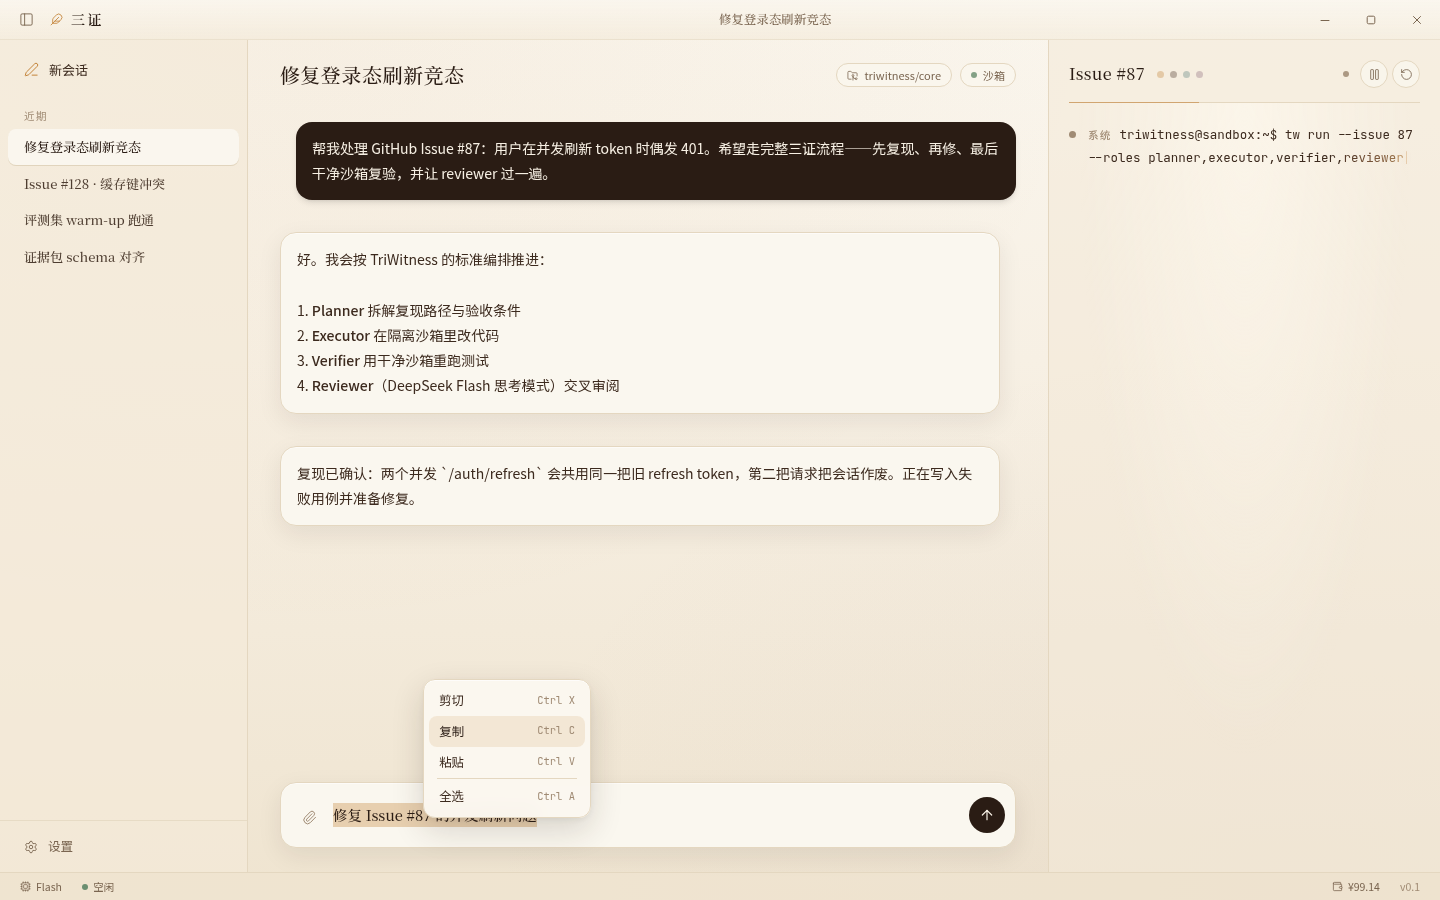
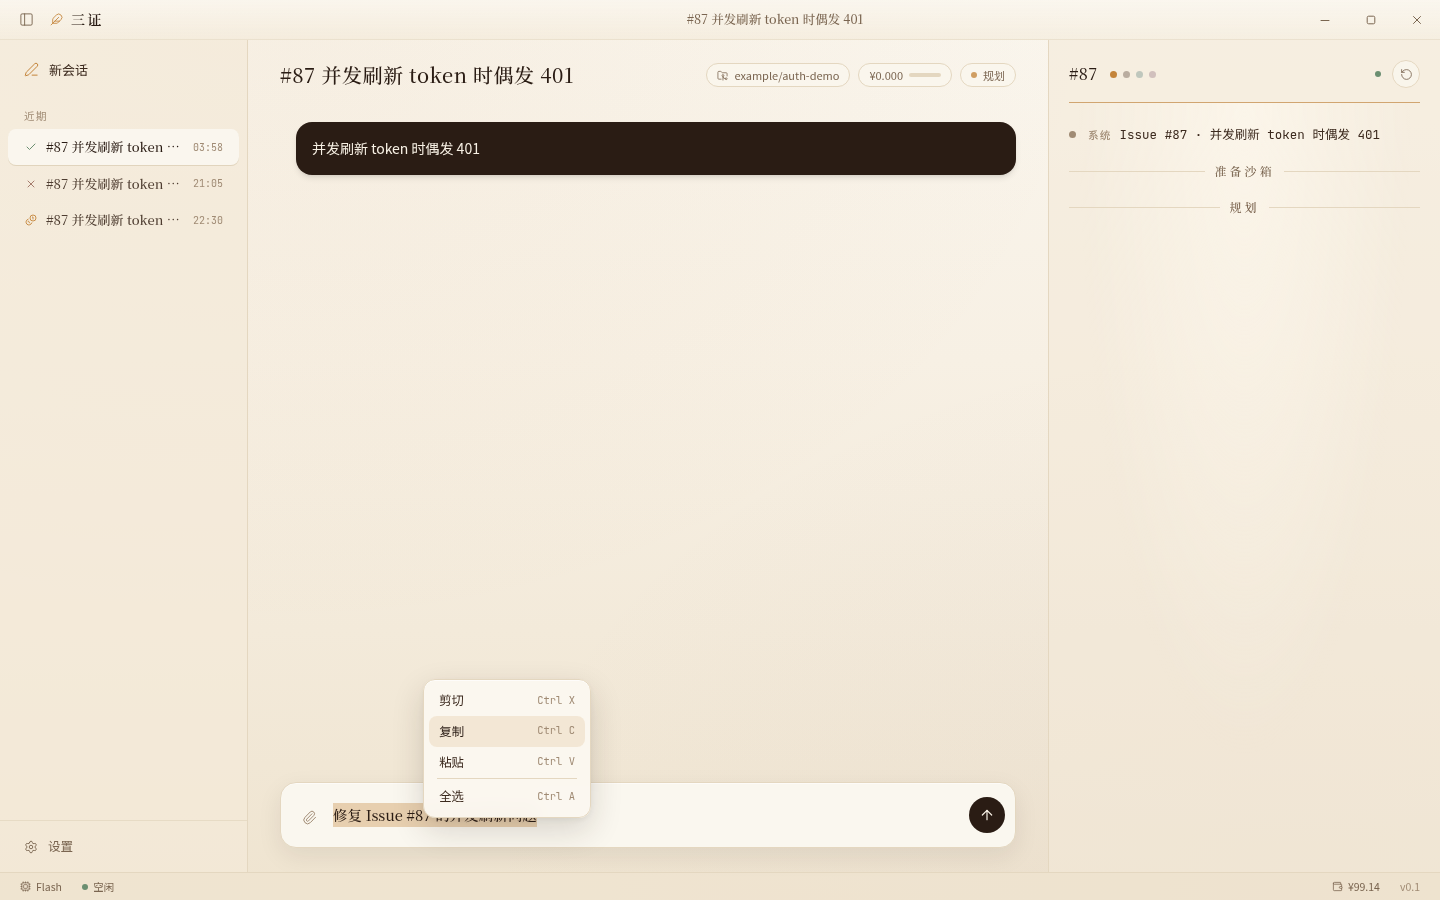
docs(desktop): UI-09 status, replay screenshots and shoot-replay smoke script

diff --git a/apps/desktop/STATUS.md b/apps/desktop/STATUS.md
@@ -2,6 +2,36 @@
 
 > 不按日历排期，做完一项记一项。
 
+## UI-09 · 回放 tw-events/1 fixture（已完成）
+
+**事件模型**
+- `scripts/gen-event-types.mjs` 用 json-schema-to-typescript 把 `schemas/tw-events-1.schema.json` 编译成 `src/data/tw-events.gen.ts`；`npm run check:events` 检查生成文件是否过期（已接入 CI）
+- `events.ts`：逐行解析，并校验 v=1、seq、ts、id 和 payload；坏行跳过，按 seq 去重排序；未知 kind 保留为 UnknownEvent，不渲染、不崩
+- `sources/`：`EventSource` 接口（subscribe / afterSeq / close）。`FixtureSource` 按 ts 间隔回放，支持倍速、空档上限和 afterSeq 续传；`MockSource` 把旧演示日志包装成事件，复用同一条路径
+- `useEventFeed` 取代 `useMockFeed`（已删）
+
+**映射（event-protocol §3）**
+- 推流：优先显示 `payload.display`，没有时按 kind 拼出一行；角色取 `role_hint`，其次 `role`，都没有时归为系统
+- 推流行的样式：状态切换显示为居中的章节标题；checkpoint 显示为琥珀色细分隔；失败的工具调用和复验失败用赭红；高峰时段调用和循环警告用琥珀；收尾行用衬线字
+- 角色点：亮起当前状态对应的角色（规划 / 执行 / 验证 / 评审）
+- 状态 chip：显示中文状态，配色点按阶段区分（进行 / 等待 / 完成 / 失败 / 预算耗尽 / 取消）
+- 费用 chip：显示 `¥x.xxx` 和一条迷你预算条；悬停显示命中率、上限和高峰调用次数。超过 80% 变琥珀，超出预算或预算耗尽变赭红
+- **跟笔同步**：状态、费用和对话只推进到笔尖已经写到的那一行；暂停时一起冻结
+- 对话：task_started 显示为用户消息（Issue 标题）；task_finished 显示为助手消息（finish_report 摘要，附带置信度）
+
+**选择 fixture**：没有新增任何说明文字。左侧「近期」直接列出三条 #87，用状态图标（✓ / × / 钱币）加北京时间区分，标签放在悬停提示里；也支持 `?source=fixture:<name>|mock` 和 `?speed=`。
+
+**和任务卡的偏差**
+- fixture 用 Vite 的 `?raw` 直接从仓库根导入，没有复制到 `public/`。这样只有一份数据源，构建时会打成独立的 chunk，Tauri 离线也能用。为此 `vite.config.ts` 的 `server.fs.allow` 加上了仓库根
+- 新增两个开发依赖：`json-schema-to-typescript`（生成类型）和 `vitest`（单元测试），都不进产物
+
+**验证**
+- `npm test`：29 项通过（覆盖解析、映射、三份 fixture 的终态、幂等、部分折叠、回放计时 / 续传 / 退订、URL 参数、生成类型是否过期）
+- `npm run lint`：通过，只剩 useWritingStream 里原有的警告；`npm run build`：通过；`uv run pytest -q`：35 项通过
+- `tools/shoot-replay.mjs`：三份 fixture 都走到终态，chip 显示正确；暂停冻结，继续后不跳字；mock 源可用；页面没有报错
+- `tools/test-guards.mjs`：21/21 通过
+- 本轮没有重建 Windows 安装包
+
 ## 第 4 轮（已完成）
 
 **屏蔽浏览器默认行为**
@@ -75,6 +105,9 @@
 - 详细步骤见 `docs/WINDOWS_BUILD.md`
 
 ## 截图（docs/）
+- `replay-success.png` / `replay-failure.png` / `replay-budget_exceeded.png`：三份 fixture 回放到终态
+- `replay-success-mid.png`：success 回放到规划阶段（状态、费用跟笔）
+- `replay-budget-tooltip.png`：费用 chip 的悬停提示
 - `main-midstream.png`：主界面，推流写到一半
 - `titlebar.png`：标题栏，关闭按钮处于悬停状态
 - `tooltip.png`：悬停提示示例
@@ -83,12 +116,14 @@
 - `main-reduced-motion.png`：开启减少动态效果时
 - `settings.png` / `settings-full.png`：设置与预算页
 
-重新截图：先运行 `npm run dev`，再运行 `cd tools && node shoot.mjs`
+重新截图：先运行 `npm run dev`，再运行 `cd tools && node shoot.mjs`；回放截图运行 `node tools/shoot-replay.mjs`（可用 `SPEED=` 调速）
 
 ## 下一步
 - [ ] 在 Windows 真机上装一次安装包，看字体渲染（ClearType）和窗口的 DPI 缩放
 - [ ] Win11 贴靠布局：自绘最大化按钮在 Rust 里处理窗口命中测试
-- [ ] 接入真实事件源（编排器通过 SSE 或本地 socket 推送），替换 mock
+- [x] 用 tw-events/1 事件模型替换 mock（UI-09）
+- [ ] 实现 SSE 版 EventSource，接 `/v1/runs/{id}/events`（断线后按 afterSeq 续传）
+- [ ] 实现 hitl_request 卡片（批准 / 拒绝）
 - [ ] 推流面板：可折叠、可停靠到底部，书写速度和字号可调
 - [ ] 证据包卡片，L0–L3 风险徽章
 - [ ] 接入法定节假日日历；账本改由 `tw budget` 驱动
